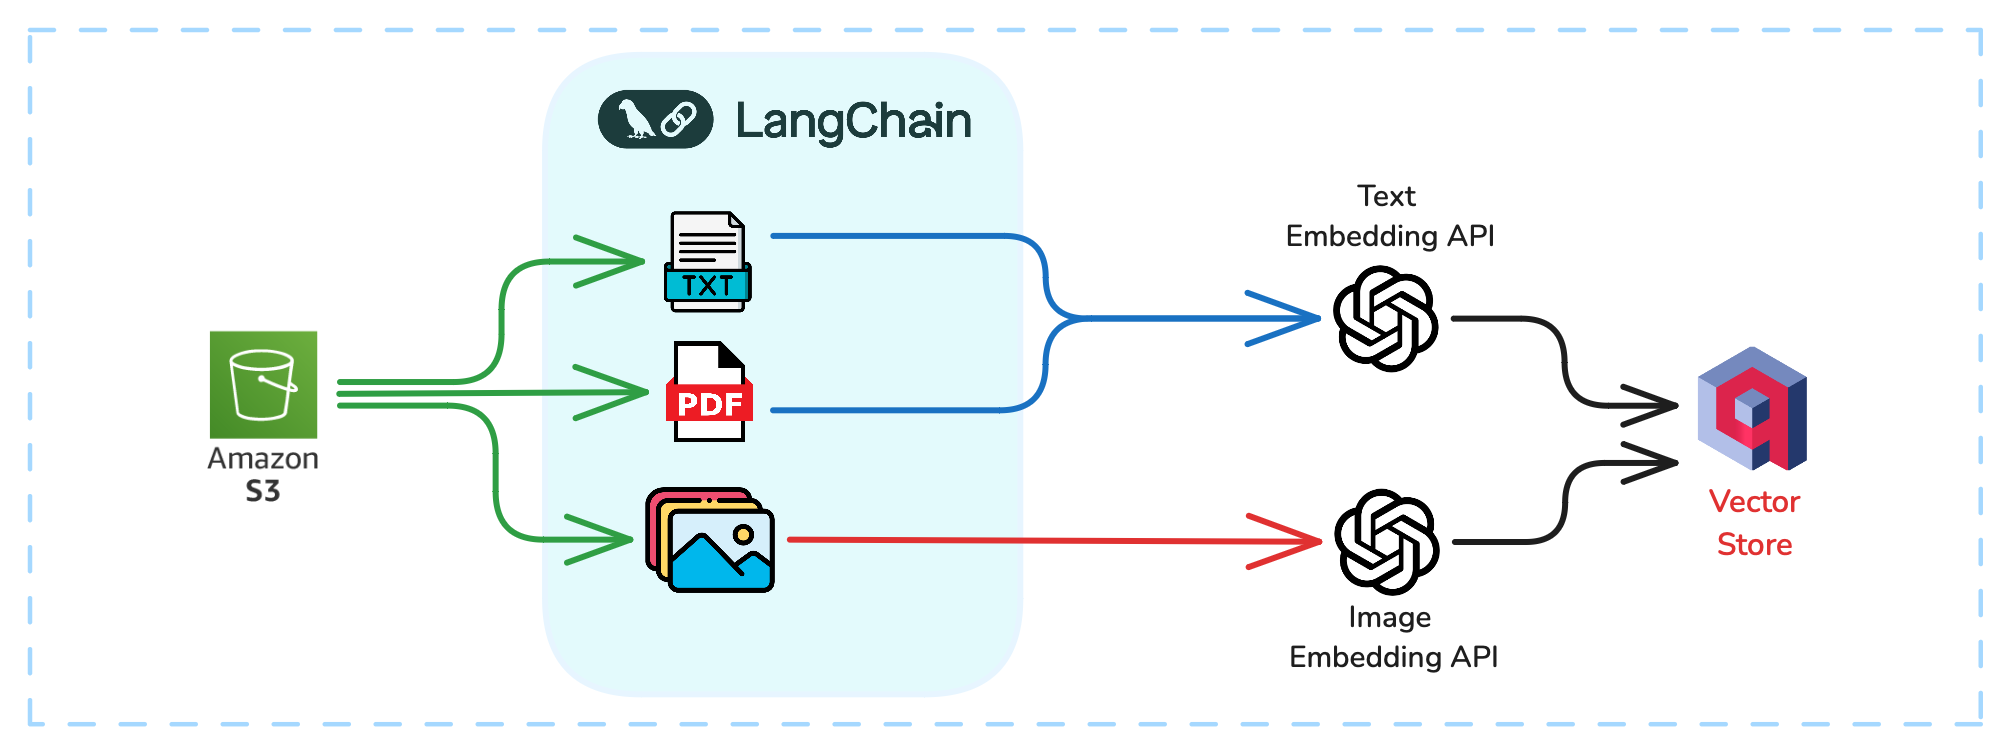
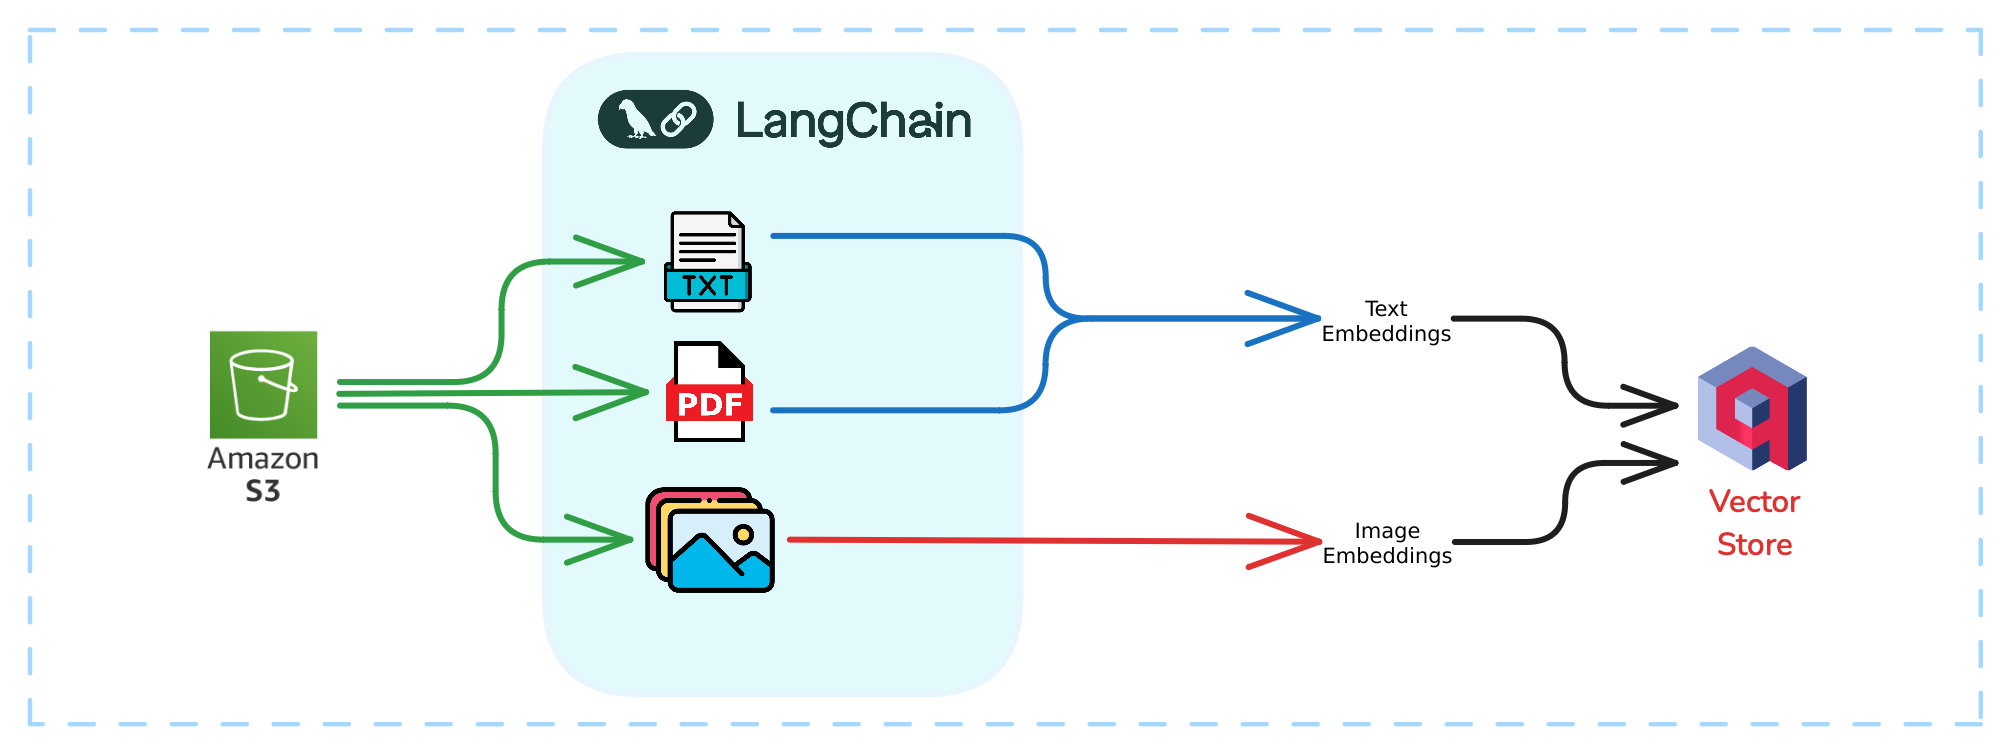
chore: Review updates

Changed region(s): [[0.6169, 0.6406, 0.7403, 0.8846], [0.6478, 0.305, 0.7403, 0.4881], [0.6786, 0.244, 0.7095, 0.2745]]

diff --git a/qdrant-landing/content/documentation/data-ingestion-beginners.md b/qdrant-landing/content/documentation/data-ingestion-beginners.md
@@ -27,8 +27,6 @@ Let's break down each component of this workflow:
 
 - **S3 Bucket:** This is our starting point—a centralized, scalable storage solution for various file types like PDFs, images, and text.
 - **LangChain:** Acting as the pipeline’s orchestrator, LangChain handles extraction, preprocessing, and manages data flow for embedding generation. It simplifies processing PDFs, so you won’t need to worry about applying OCR (Optical Character Recognition) here.
-- **Text Embeddings API:** This API transforms text from files and PDFs into vector representations, capturing semantic meaning for advanced analysis and search.
-- **Image Embeddings API:** This tool takes image files and converts them into vector representations, making similarity search and analysis possible for visual content.
 - **Qdrant:** As your vector database, Qdrant stores embeddings and their [payloads](https://qdrant.tech/documentation/concepts/payload/), enabling efficient similarity search and retrieval across all content types.
 
 ## Prerequisites
@@ -236,7 +234,7 @@ if __name__ == "__main__":
             aws_secret_access_key=aws_secret_access_key
         )
         docs = loader.load()
-        text_embedding, image_embedding, points, text_review, product_image = [], [], [], "", ""
+        points, text_review, product_image = [], "", ""
         for idx, doc in enumerate(docs):
             source = doc.metadata['source']
             if source.endswith(".txt") or source.endswith(".pdf"):
